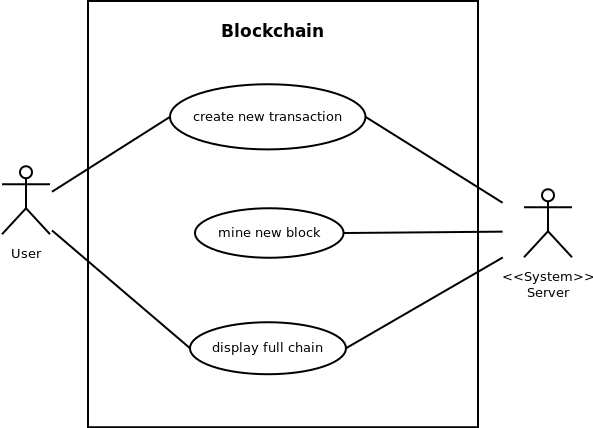
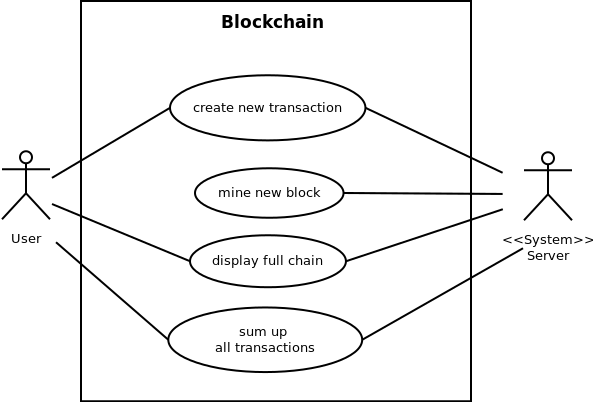
documentation for summing up all transactions added

diff --git a/README.md b/README.md
@@ -55,15 +55,21 @@ with a body containing our transaction structure, e.g.:
 
 ### Mining a block
 
-Mine a block by making a GET request to [http://localhost:5000/mine]()
+Mine a block by making a GET request to [http://localhost:5000/mine]().
 
 ![GET mine](./docs/screenshots/GET_mine.png)
 
 ### Viewing the chain 
 
-View the full chain by GET requesting [http://localhost:5000/chain]()
+View the full chain by GET requesting [http://localhost:5000/chain]().
 
 ![GET chain](./docs/screenshots/GET_chain.png)
+
+### Summing up all transactions
+
+Obtain the total amount of all transactions by GET requesting [http://localhost:5000/sum]().
+
+![GET sum](./docs/screenshots/GET_sum.png)
 
 ## Clean Code Development
 
